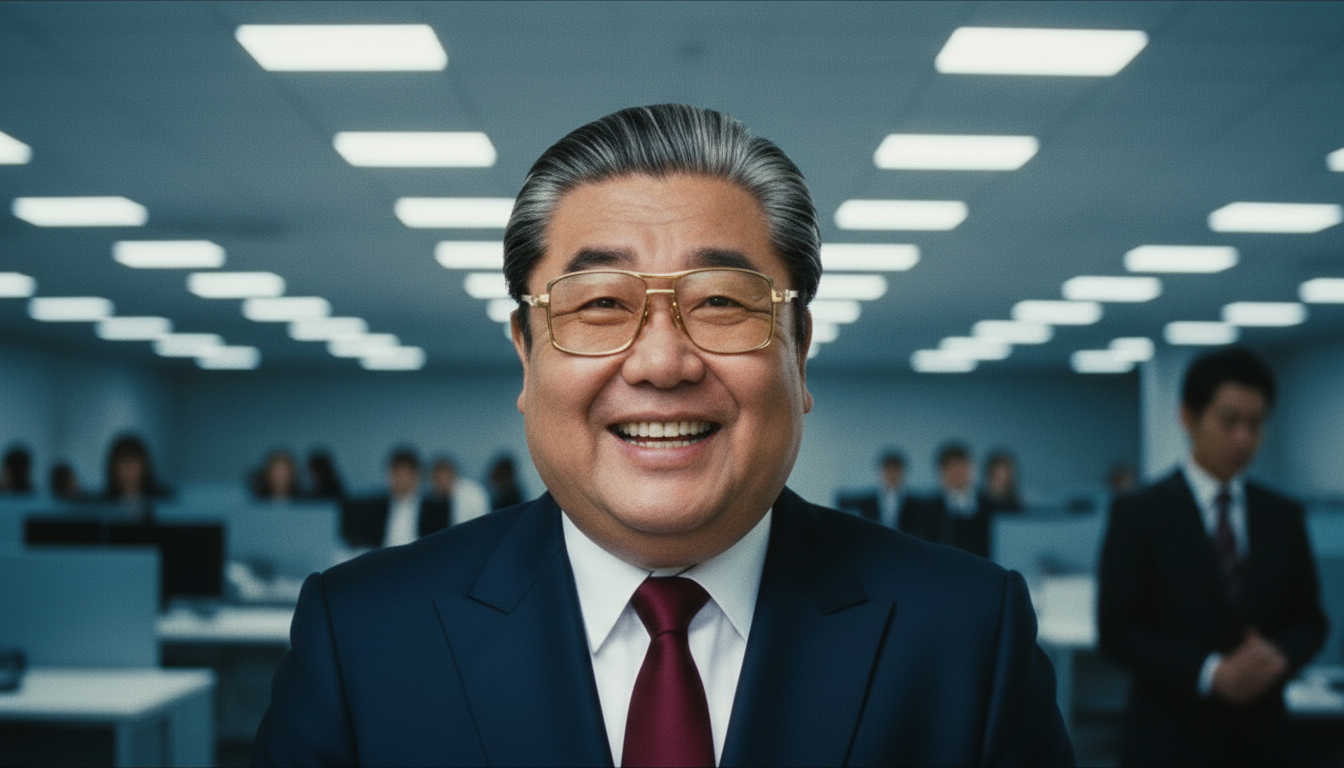
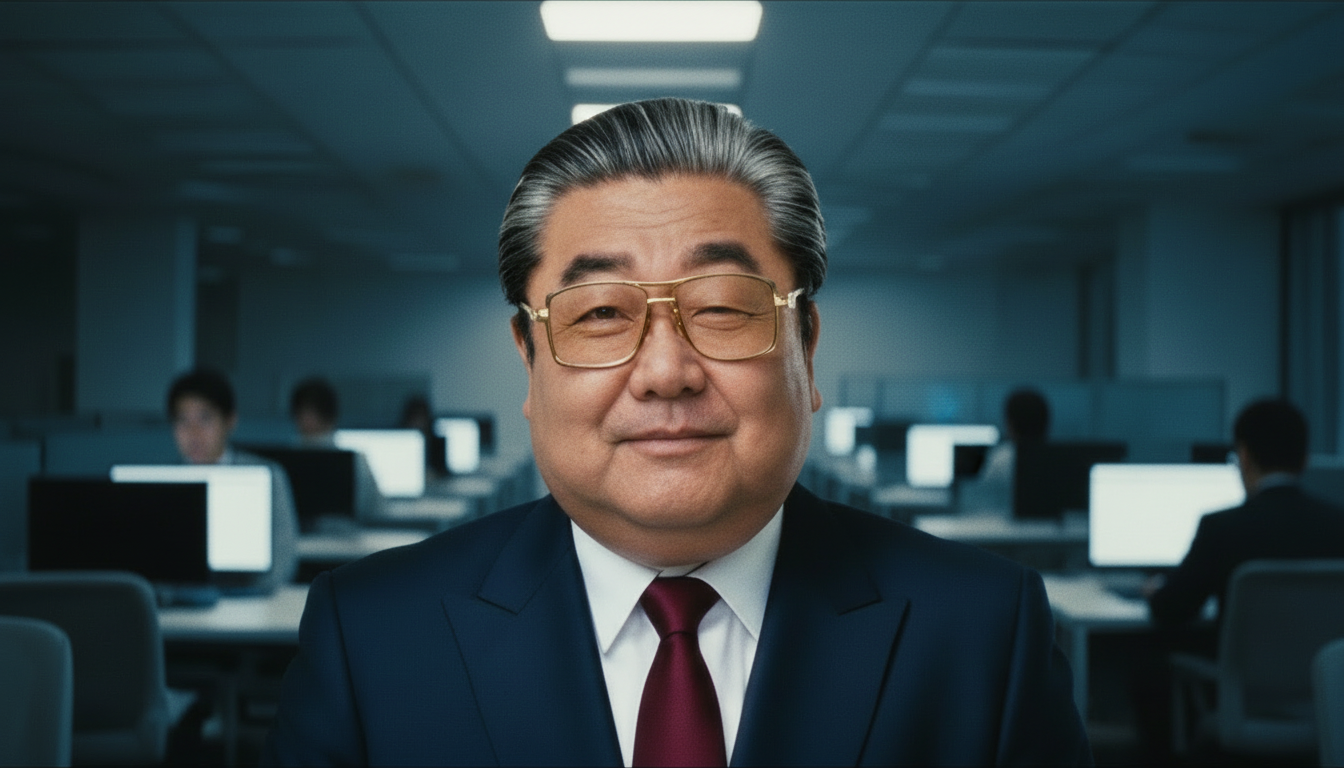
#02 표정별 기준 얼굴 도입, S15j 재생성(기준 S15g)
Claude-Session: https://claude.ai/code/session_01YQ7Cp53r875ebzvKNdfnd7

diff --git a/scripts/build_chika_keyframes.py b/scripts/build_chika_keyframes.py
@@ -38,7 +38,10 @@ PEOPLE = {
 # 인물별 기준 얼굴 = A단계 승인 OMNI 컷(제7장 7: 기준 얼굴은 대사 키프레임). 사오리 엔딩(saori-e)은 대사 컷이 없어 셀 유지.
 FACE_KF = {"saori": "S03c", "saori-b": "S15e", "gondo": "S03d", "miyamoto": "S06c", "kiritani": "S01b", "okochi": "S16b"}
 FACE_KINDS = ("face", "react", "d", "sil")
-ANCHOR_FALLBACK = {"saori": "S15e"}   # 자기 자신이 기준 얼굴인 컷을 재생성할 때 쓸 같은 인물의 다른 기준(사무실 사오리 → 지하 사오리 얼굴)   # sil: 실루엣이라도 체형·머리 윤곽은 기준 얼굴 컷을 따른다
+ANCHOR_FALLBACK = {"saori": "S15e"}
+# 표정별 기준 얼굴(A단계 2차 실증: 미소 기준 S06c로 만든 S15j가 「무표정」 지시에도 미소를 유지) — 표정 셀이 있으면 같은 표정의 승인 컷을 기준으로
+FACE_KF_BY_EXPR = {"miyamoto-expr2": "S15g", "miyamoto-expr3": "S08b", "gondo-expr3": "S14b", "gondo-expr2": "S12b",
+                   "saori-b-expr2": "S11c", "saori-expr2": "S03c", "okochi-expr3": "S16h", "kiritani-expr2": "S14c"}   # 자기 자신이 기준 얼굴인 컷을 재생성할 때 쓸 같은 인물의 다른 기준(사무실 사오리 → 지하 사오리 얼굴)   # sil: 실루엣이라도 체형·머리 윤곽은 기준 얼굴 컷을 따른다
 
 TIGHT = ("FRAMING FIRST: a tight single-person chest-up close-up — head and shoulders fill the frame, the top of the head near the top edge, "
          "the frame cut at mid-chest; the face occupies about one third of the frame height; hands NOT visible; NOT a medium shot, NOT a full-body shot. "
@@ -204,7 +207,11 @@ def face_refs_for(sc):
     for r in sc["refs"]:
         k = person_key(r)
         if k and k in FACE_KF:
-            p = f"{KF_DIR}/{FACE_KF[k]}-1.png"   # collect 뒤의 승인 키프레임(파일럿·A·재생성 포함)
+            cell = os.path.basename(r).rsplit(".", 1)[0]
+            kf_id = FACE_KF_BY_EXPR.get(cell, FACE_KF[k])
+            if kf_id == sc["id"]:
+                kf_id = FACE_KF[k]
+            p = f"{KF_DIR}/{kf_id}-1.png"   # collect 뒤의 승인 키프레임(파일럿·A·재생성 포함)
             if sc["id"] == FACE_KF[k]:
                 if k not in ANCHOR_FALLBACK:
                     continue
